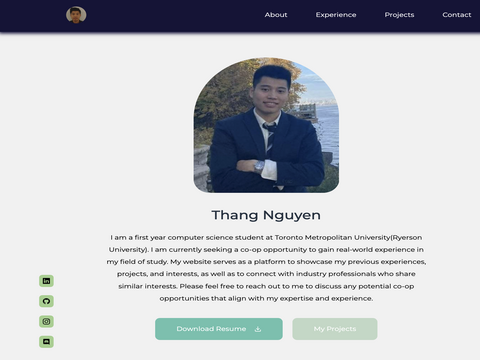
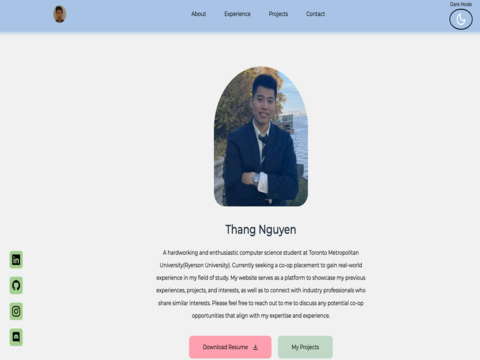
Adding projects and fixing headers

Changed region(s): [[0.2188, 0.1528, 0.9062, 1.0], [0.0, 0.0, 1.0, 0.1222], [0.0, 0.7028, 0.125, 0.9778]]

diff --git a/src/components/portfolio/data.ts b/src/components/portfolio/data.ts
@@ -1,6 +1,6 @@
 import IMG1 from '../../assets/portfolio1.png'
 import IMG2 from '../../assets/portfolio2.png'
-import IMG3 from '../../assets/portfolio3.jpg'
+import IMG3 from '../../assets/portfolio3.png'
 import IMG4 from '../../assets/portfolio4.jpg'
 import IMG5 from '../../assets/portfolio5.png'
 import IMG6 from '../../assets/portfolio6.jpg'
@@ -17,7 +17,7 @@ interface PortfolioItem{
 const data: PortfolioItem[] = [
     {id:1,image: IMG1,title:'Thang Nguyen - Personal Website',github:'https://github.com/Thangnguyenvn98/Portfolio-Website',demo:'https://www.thang-nguyen.ca/'},
     {id:2,image: IMG2,title:'My Notes - Created with React,JS and Tailwind',github:'https://github.com/Thangnguyenvn98/react-notes',demo:'https://reactnote-thang.vercel.app/'},
-    {id:3,image: IMG3,title:'In progress with placeholder picture',github:'https://github.com',demo:'https://github.com'},
+    {id:3,image: IMG3,title:'PostUrThought - FullStack Project built with NextJS, Prisma, NextAuth and TS',github:'https://github.com/Thangnguyenvn98/NextJS-PostUrThought',demo:'https://posturthought.vercel.app/'},
     {id:4,image: IMG4,title:'In progress with placeholder picture',github:'https://github.com',demo:'https://github.com'},
     {id:5,image: IMG5,title:'In progress with placeholder picture',github:'https://github.com',demo:'https://github.com'},
     {id:6,image: IMG6,title:'In progress with placeholder picture',github:'https://github.com',demo:'https://github.com'}

diff --git a/src/components/header/Header.tsx b/src/components/header/Header.tsx
@@ -22,7 +22,7 @@ const Header:React.FC<Props> = () => {
         </div>
         <h1>Thang Nguyen</h1>
         <p> 
-       I am a first year computer science student at Toronto Metropolitan University(Ryerson University). I am currently seeking a co-op opportunity to gain real-world experience in my field of study. My website serves as a platform to showcase my previous experiences, projects, and interests, as well as to connect with industry professionals who share similar interests. Please feel free to reach out to me to discuss any potential co-op opportunities that align with my expertise and experience.</p>
+       A hardworking and enthusiastic computer science student at Toronto Metropolitan University(Ryerson University). Currently seeking a co-op placement to gain real-world experience in my field of study. My website serves as a platform to showcase my previous experiences, projects, and interests, as well as to connect with industry professionals who share similar interests. Please feel free to reach out to me to discuss any potential co-op opportunities that align with my expertise and experience.</p>
         <div className ="header__btn">
           <a href={Resume} download="thangnguyen-resume" rel="noreferrer" target='_blank' className='btn'>Download Resume<FiDownload/></a>
           <a href="#portfolio" className ='btn white'>My Projects</a>

diff --git a/src/components/experience/Experience.tsx b/src/components/experience/Experience.tsx
@@ -9,7 +9,7 @@ const Experience: React.FC = () => {
       return (
         <section id="experience">
           <h5>What Skills I have</h5>
-          <h2>My Experience</h2>
+          <h2>My TechStack</h2>
           <div className="container experience__container">
             <div className="experience__frontend">
               <h3>Front End & Framework</h3>
